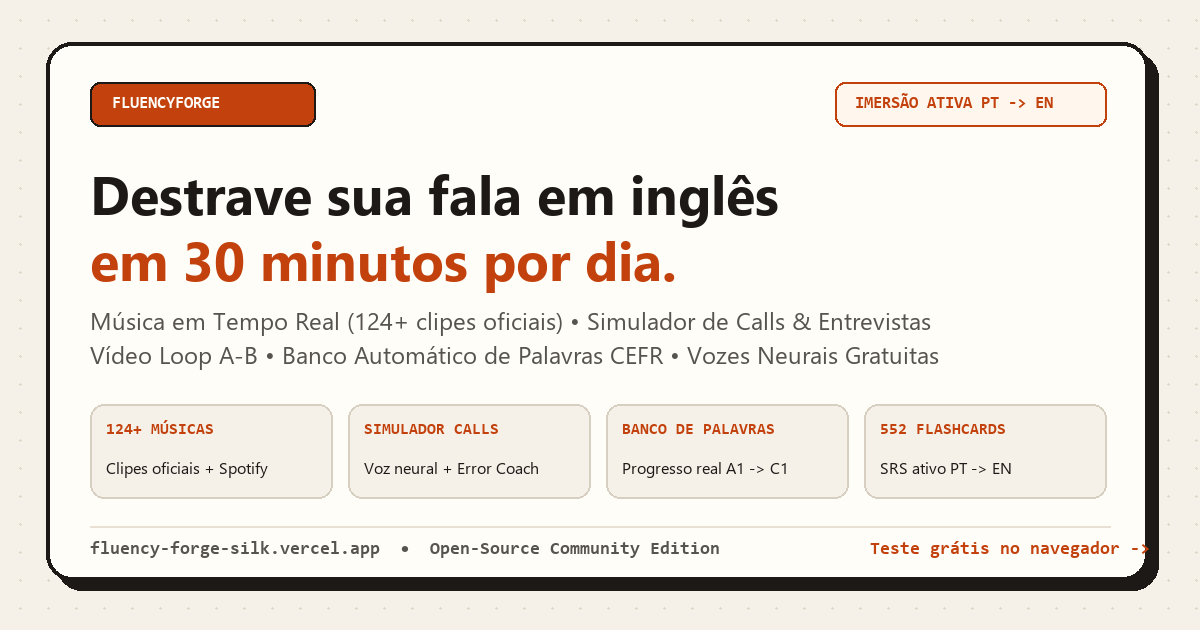
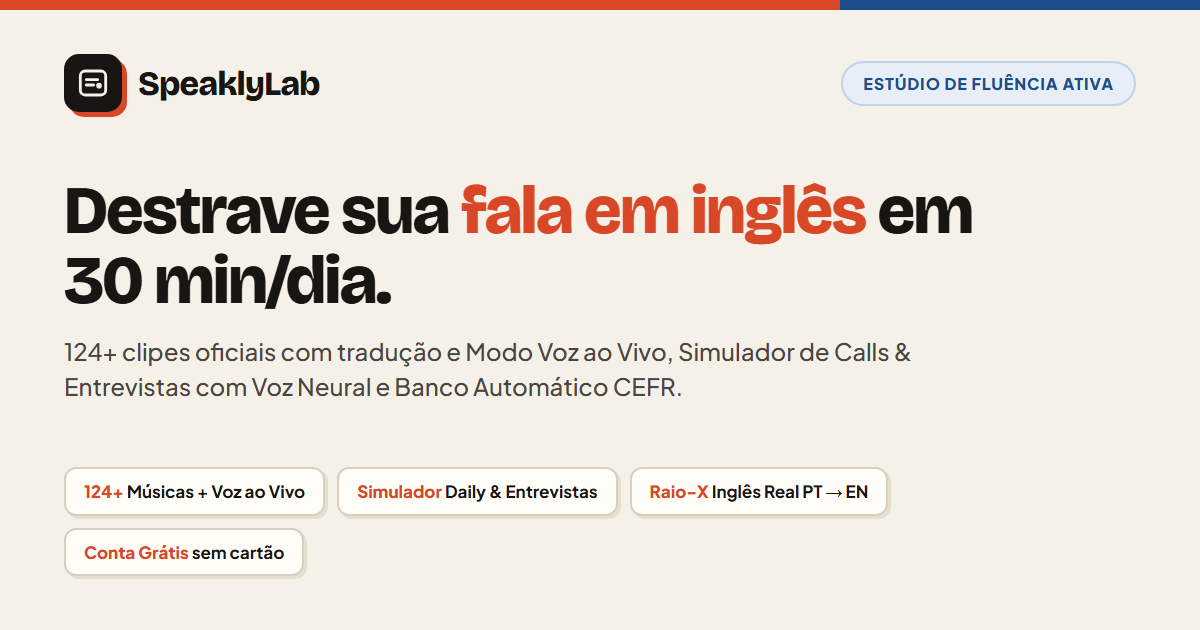
chore(brand): rebrand Community Edition, docs and OG assets to SpeaklyLab

Changed region(s): [[0.0308, 0.0603, 0.9867, 0.9651], [0.0, 0.0, 1.0, 0.0302], [0.7092, 0.6333, 0.925, 0.6937]]

diff --git a/public/guia.html b/public/guia.html
@@ -3,12 +3,12 @@
 <head>
   <meta charset="UTF-8" />
   <meta name="viewport" content="width=device-width, initial-scale=1.0" />
-  <title>Guia Visual Passo a Passo — FluencyForge</title>
-  <meta name="description" content="Guia visual em 7 passos para destravar sua fala em inglês usando FluencyForge." />
+  <title>Guia Visual Passo a Passo — SpeaklyLab</title>
+  <meta name="description" content="Guia visual em 7 passos para destravar sua fala em inglês usando SpeaklyLab." />
   <meta name="robots" content="index, follow" />
   <link rel="canonical" href="https://fluency-forge-silk.vercel.app/guia.html" />
   <link rel="icon" type="image/svg+xml" href="/favicon.svg" />
-  <meta property="og:title" content="Guia Visual Passo a Passo — FluencyForge" />
+  <meta property="og:title" content="Guia Visual Passo a Passo — SpeaklyLab" />
   <meta property="og:image" content="https://fluency-forge-silk.vercel.app/og-image.png" />
   <link rel="preconnect" href="https://fonts.googleapis.com" />
   <link rel="preconnect" href="https://fonts.gstatic.com" crossorigin />
@@ -29,7 +29,7 @@
         <div class="brand-logo">FF</div>
         <div>
           <h1 style="font-size:20px; font-weight:800;">Guia Visual — Como Evoluir Passo a Passo</h1>
-          <p class="muted">Apresentação interativa do FluencyForge para ir de pouco em pouco, na ordem certa</p>
+          <p class="muted">Apresentação interativa do SpeaklyLab para ir de pouco em pouco, na ordem certa</p>
         </div>
       </div>
       <div class="row">
@@ -126,7 +126,7 @@
           <div class="stack-md">
             <div class="card stack-md">
               <span class="pill">Regra de Ouro: 30% ouvindo • 70% falando em voz alta</span>
-              <h2>Por que o FluencyForge destrava seu inglês mais rápido</h2>
+              <h2>Por que o SpeaklyLab destrava seu inglês mais rápido</h2>
               <p class="muted">Você já entende bem, mas trava na fala e na leitura porque seu treino anterior era passivo. Aqui tudo é construído para puxar o inglês da sua memória na hora, em passos pequenos e consistentes.</p>
               <div class="grid-2">
                 <div class="compare-bad stack-sm">
@@ -137,7 +137,7 @@
                   <div>• Tentar fazer tudo no Dia 1 e cansar</div>
                 </div>
                 <div class="compare-good stack-sm">
-                  <strong>✅ Jeito FluencyForge (destrava rápido)</strong>
+                  <strong>✅ Jeito SpeaklyLab (destrava rápido)</strong>
                   <div>• Montar frases em 3 blocos prontos</div>
                   <div>• Cartão Invertido (PT → EN) com SRS</div>
                   <div>• Clicar nas palavras + Shadowing em voz alta</div>
@@ -290,9 +290,9 @@
               </div>
               <div class="card stack-sm">
                 <h3>💾 Como Abrir Sempre</h3>
-                <p class="muted">1. Dê duplo clique em <strong>D:\FluencyForge\abrir-plataforma.bat</strong>.</p>
+                <p class="muted">1. Dê duplo clique em <strong>D:\SpeaklyLab\abrir-plataforma.bat</strong>.</p>
                 <p class="muted">2. Prefira <strong>Chrome</strong> ou <strong>Edge</strong> para áudio e microfone.</p>
-                <p class="muted">3. Seu progresso fica salvo em <strong>D:\FluencyForge\data\progress.json</strong>.</p>
+                <p class="muted">3. Seu progresso fica salvo em <strong>D:\SpeaklyLab\data\progress.json</strong>.</p>
                 <div style="padding-top:6px;"><a href="/" class="btn btn-primary">Começar Treino Agora →</a></div>
               </div>
             </div>

diff --git a/public/js/lyrics-studio.js b/public/js/lyrics-studio.js
@@ -459,7 +459,7 @@ function updateBilingualActiveRow() {
 }
 
 // =========================================================================
-// COMMUNITY EDITION: LOCAL ONLY (CLOUD LEADERBOARD IS PART OF FLUENCYFORGE PRO)
+// COMMUNITY EDITION: LOCAL ONLY (CLOUD LEADERBOARD IS PART OF SPEAKLYLAB PRO)
 // =========================================================================
 async function fetchGlobalTrendingOnce() {}
 
@@ -470,7 +470,7 @@ function renderFirebaseHubPanel() {
     <div class="card row-between" style="padding:14px 16px; gap:12px; flex-wrap:wrap; background:var(--bg-soft);">
       <div class="row" style="gap:10px; align-items:center;">
         <span class="pill" style="font-size:11px;">${iconHtml('trophy', 12)} Modo Local (Community MIT)</span>
-        <span class="muted" style="font-size:12.5px;">Quer competir no <strong>Ranking Global por Música</strong>, ver onde brasileiros mais travam e sincronizar na nuvem? Conheça o <strong>FluencyForge Pro</strong>.</span>
+        <span class="muted" style="font-size:12.5px;">Quer competir no <strong>Ranking Global por Música</strong>, ver onde brasileiros mais travam e sincronizar na nuvem? Conheça o <strong>SpeaklyLab Pro</strong>.</span>
       </div>
       <div class="row" style="gap:6px;">
         <button type="button" class="btn btn-secondary btn-sm" id="btn-ls-challenge-friend">${iconHtml('share-2', 13)} Compartilhar Placar</button>
@@ -485,8 +485,8 @@ function renderFirebaseHubPanel() {
 function copyChallengeInvite() {
   playClick();
   const text = ls.score > 0
-    ? `Fiz ${ls.score.toLocaleString('pt-BR')} pts em "${ls.songTitle}" (${ls.songArtist}) no FluencyForge! Consegue bater meu placar? https://fluency-forge-pro.vercel.app/`
-    : `Estou treinando inglês ao vivo com "${ls.songTitle}" (${ls.songArtist}) no FluencyForge! https://fluency-forge-pro.vercel.app/`;
+    ? `Fiz ${ls.score.toLocaleString('pt-BR')} pts em "${ls.songTitle}" (${ls.songArtist}) no SpeaklyLab! Consegue bater meu placar? https://fluency-forge-pro.vercel.app/`
+    : `Estou treinando inglês ao vivo com "${ls.songTitle}" (${ls.songArtist}) no SpeaklyLab! https://fluency-forge-pro.vercel.app/`;
   if (navigator.clipboard && typeof navigator.clipboard.writeText === 'function') {
     navigator.clipboard.writeText(text).then(() => {
       toastFn('Placar copiado para compartilhar!');

diff --git a/public/js/data-path.js b/public/js/data-path.js
@@ -532,7 +532,7 @@ export const LEARNING_PATH = [
           { type: 'listen', en: 'Long story short, we sorted everything out and stayed under budget.', pt: 'Resumindo a história, resolvemos tudo e ficamos dentro do orçamento.', options: ['Resumindo a história, resolvemos tudo e ficamos dentro do orçamento.', 'Gastamos acima do orçamento e não resolvemos.', 'A história ainda não terminou.', 'Precisamos aumentar o orçamento amanhã.'], answer: 0, phon: 'lóng stó-ri shórt, uí sór-ted év-ri-thin áut énd stêid ân-der bâ-djet', explain: 'Três blocos nativos juntos na mesma frase!' },
           { type: 'type', pt: 'Combinado! Te vejo amanhã de manhã.', en: 'Sounds good! See you tomorrow morning.', alt: ['Sounds good, see you tomorrow morning.'], phon: 'sáundz gúd! sí iú tchu-mó-rôu mór-nin', explain: 'Perfeito!' },
           { type: 'speak', en: 'I am ready to speak whatever I need with confidence.', pt: 'Estou pronto para falar o que eu precisar com confiança.', phon: 'áim ré-di tchu spík uó-té-ver ái níd uíth kón-fi-dens', explain: 'Fale alto e com orgulho — você fechou a trilha inteira!' },
-          { type: 'type', pt: 'Todo esse esforço vai valer a pena muito em breve.', en: 'All this effort is going to pay off very soon.', alt: ['All this effort will pay off very soon.', 'All this effort is gonna pay off soon.'], phon: 'ól dhís é-fort íz gó-na pêi óf vé-ri sún', explain: '👑 Trilha FluencyForge 100% concluída!' }
+          { type: 'type', pt: 'Todo esse esforço vai valer a pena muito em breve.', en: 'All this effort is going to pay off very soon.', alt: ['All this effort will pay off very soon.', 'All this effort is gonna pay off soon.'], phon: 'ól dhís é-fort íz gó-na pêi óf vé-ri sún', explain: '👑 Trilha SpeaklyLab 100% concluída!' }
         ]
       }
     ]

diff --git a/public/index.html b/public/index.html
@@ -3,7 +3,7 @@
 <head>
   <meta charset="UTF-8" />
   <meta name="viewport" content="width=device-width, initial-scale=1.0" />
-  <title>FluencyForge — Estúdio Open-Source de Fluência em Inglês</title>
+  <title>SpeaklyLab — Estúdio Open-Source de Fluência em Inglês</title>
   <meta name="description" content="Plataforma open-source de imersão ativa em inglês: 124+ clipes oficiais em tempo real, Simulador de Calls, Vídeo Loop A-B, 552 Flashcards SRS PT → EN, Banco de Palavras CEFR e Vozes Neurais gratuitas." />
   <meta name="robots" content="index, follow, max-image-preview:large" />
   <meta name="theme-color" content="#f5f1e8" />
@@ -13,8 +13,8 @@
   <link rel="manifest" href="/site.webmanifest" />
   <meta property="og:type" content="website" />
   <meta property="og:locale" content="pt_BR" />
-  <meta property="og:site_name" content="FluencyForge" />
-  <meta property="og:title" content="FluencyForge — Estúdio Open-Source de Fluência em Inglês" />
+  <meta property="og:site_name" content="SpeaklyLab" />
+  <meta property="og:title" content="SpeaklyLab — Estúdio Open-Source de Fluência em Inglês" />
   <meta property="og:description" content="Destrave sua fala em inglês com 124+ clipes oficiais em tempo real, Simulador de Calls, Vídeo Loop A-B, Vozes Neurais e Banco de Palavras CEFR." />
   <meta property="og:url" content="https://fluency-forge-silk.vercel.app/" />
   <meta property="og:image" content="https://fluency-forge-silk.vercel.app/og-image.png" />
@@ -41,7 +41,7 @@
           </svg>
         </div>
         <div>
-          <div class="brand-title">FluencyForge</div>
+          <div class="brand-title">SpeaklyLab</div>
           <div class="brand-sub" id="brand-sub">Estúdio de Inglês</div>
         </div>
       </div>

diff --git a/public/js/share-card.js b/public/js/share-card.js
@@ -57,7 +57,7 @@ export function downloadEvolutionCardPng() {
   ctx.fill();
   ctx.fillStyle = '#fffdf8';
   ctx.font = '700 15px monospace';
-  ctx.fillText('FLUENCYFORGE', 108, 100);
+  ctx.fillText('SPEAKLYLAB', 108, 100);
 
   // Date top-right
   ctx.fillStyle = '#78716c';
@@ -159,7 +159,7 @@ export function downloadEvolutionCardPng() {
   ctx.fillText('fluency-forge-silk.vercel.app  •  Estúdio de Imersão Ativa em Inglês', 84, 540);
 
   const link = document.createElement('a');
-  link.download = `fluencyforge-evolucao-${new Date().toISOString().slice(0, 10)}.png`;
+  link.download = `speaklylab-evolucao-${new Date().toISOString().slice(0, 10)}.png`;
   link.href = canvas.toDataURL('image/png');
   link.click();
 }
@@ -167,7 +167,7 @@ export function downloadEvolutionCardPng() {
 export function buildEvolutionShareText() {
   const a = getProfileAnalytics();
   return [
-    `Minha evolução no inglês com FluencyForge:`,
+    `Minha evolução no inglês com SpeaklyLab:`,
     `• Nível estimado: ${a.cefr.code} (${a.overallScore}/100)`,
     `• Tempo de imersão: ${formatDurationCompact(a.totalSec)}`,
     `• Banco de Palavras: ${a.lx.totalUnique} palavras vistas (${a.lx.knownTotal} aprendidas)`,

diff --git a/public/js/data-drills-extra.js b/public/js/data-drills-extra.js
@@ -213,7 +213,7 @@ export const EXTRA_SPEAKING_TOPICS_432 = [
   { title: 'Como lidar com pressão e prazos curtos', prompt: 'Explique o que você faz para manter a calma quando falta pouco tempo para entregar algo importante.' },
   { title: 'Redes sociais: ferramenta ou distração?', prompt: 'Dê uma visão equilibrada sobre como você usa redes sociais para aprender vs. quando elas roubam seu foco.' },
   { title: 'Qual outro idioma você quer aprender depois do inglês', prompt: 'Você mencionou que quer aprender alguns idiomas! Fale quais são, por que te interessam e como o inglês vai abrir portas para eles.' },
-  { title: 'Simulação: explicar sua plataforma FluencyForge', prompt: 'Explique em inglês para um amigo como funciona essa plataforma que você está usando hoje e qual parte ajuda mais.' },
+  { title: 'Simulação: explicar sua plataforma SpeaklyLab', prompt: 'Explique em inglês para um amigo como funciona essa plataforma que você está usando hoje e qual parte ajuda mais.' },
   { title: 'Seu maior objetivo nos próximos 90 dias', prompt: 'Seja específico: o que você quer estar fazendo com confiança daqui a 3 meses e qual plano vai seguir.' }
 ];
 

diff --git a/public/js/app.js b/public/js/app.js
@@ -194,10 +194,10 @@ function setView(view) {
     btn.classList.toggle('active', btn.dataset.view === view);
   });
   document.querySelector('.sidebar').classList.remove('open');
-  const [title, sub] = VIEW_META[view] || ['FluencyForge', ''];
+  const [title, sub] = VIEW_META[view] || ['SpeaklyLab', ''];
   document.getElementById('page-title').textContent = title;
   document.getElementById('page-subtitle').textContent = sub;
-  document.title = `${title} | FluencyForge`;
+  document.title = `${title} | SpeaklyLab`;
   renderView();
 }
 
@@ -1173,7 +1173,7 @@ function bindViewEvents() {
       const url = URL.createObjectURL(blob);
       const a = document.createElement('a');
       a.href = url;
-      a.download = `fluencyforge-backup-${new Date().toISOString().slice(0, 10)}.json`;
+      a.download = `speaklylab-backup-${new Date().toISOString().slice(0, 10)}.json`;
       a.click();
       URL.revokeObjectURL(url);
       showToast('Backup baixado com sucesso!');

diff --git a/server.js b/server.js
@@ -203,9 +203,9 @@ const server = http.createServer((req, res) => {
 server.listen(PORT, '127.0.0.1', () => {
   console.log('');
   console.log('====================================================');
-  console.log('  FluencyForge — Plataforma de Imersão em Inglês');
+  console.log('  SpeaklyLab — Plataforma de Imersão em Inglês');
   console.log(`  Acesse no navegador: http://localhost:${PORT}`);
-  console.log('  Progresso salvo em:  D:\\FluencyForge\\data\\progress.json');
+  console.log('  Progresso salvo em:  D:\\SpeaklyLab\\data\\progress.json');
   console.log('====================================================');
   console.log('');
 });

diff --git a/public/js/lexicon-view.js b/public/js/lexicon-view.js
@@ -307,7 +307,7 @@ export function bindLexiconEvents(root, rerender, showToast) {
     const blob = new Blob([[header, ...csvRows].join('\n')], { type: 'text/csv;charset=utf-8' });
     const a = document.createElement('a');
     a.href = URL.createObjectURL(blob);
-    a.download = `fluencyforge-lexico-${new Date().toISOString().slice(0, 10)}.csv`;
+    a.download = `speaklylab-lexico-${new Date().toISOString().slice(0, 10)}.csv`;
     a.click();
     setTimeout(() => URL.revokeObjectURL(a.href), 1500);
     showToast(`CSV exportado com ${entries.length} palavras!`);

diff --git a/public/js/music-native-xray.js b/public/js/music-native-xray.js
@@ -1,5 +1,5 @@
 // Real Spoken English X-Ray (Connected Speech, Contractions & Phrasal Verbs)
-// + Word-by-Word Live Voice Shadowing Evaluator for FluencyForge Music Studio
+// + Word-by-Word Live Voice Shadowing Evaluator for SpeaklyLab Music Studio
 
 const CONNECTED_SPEECH_RULES = [
   { re: /\bi['’]?ma\b/gi, raw: "I'ma", expanded: "I am going to", tip: 'Junção super rápida de "I am going to" — muito comum em pop, rap e fala informal nos EUA.' },

diff --git a/public/styles.css b/public/styles.css
@@ -1,5 +1,5 @@
 /* =========================================================================
-   FLUENCYFORGE — EDITORIAL STUDIO DESIGN SYSTEM
+   SPEAKLYLAB — EDITORIAL STUDIO DESIGN SYSTEM
    Warm Archival Paper, Espresso Ink, International Vermilion & Forest Green
    ========================================================================= */
 

diff --git a/README.md b/README.md
@@ -1,4 +1,4 @@
-# FluencyForge — Estúdio Open-Source de Fluência Ativa em Inglês
+# SpeaklyLab — Estúdio Open-Source de Fluência Ativa em Inglês
 
 ![License: MIT](https://img.shields.io/badge/License-MIT-c2410c.svg)
 ![Node.js 18+](https://img.shields.io/badge/Node.js-18%2B-15803d.svg)
@@ -45,9 +45,9 @@ Veja o histórico detalhado de versões em [CHANGELOG.md](./CHANGELOG.md).
 
 ## Modelo Open-Core: Community vs. Pro
 
-O FluencyForge segue o modelo **Open-Core**: este repositório contém a edição **Community (MIT)** 100% aberta para uso local, estudo e contribuições da comunidade. A edição comercial **FluencyForge Pro** adiciona a camada SaaS em nuvem em um repositório privado separado.
+O SpeaklyLab segue o modelo **Open-Core**: este repositório contém a edição **Community (MIT)** 100% aberta para uso local, estudo e contribuições da comunidade. A edição comercial **SpeaklyLab Pro** adiciona a camada SaaS em nuvem em um repositório privado separado.
 
-| Recurso | Community (MIT — Este Repo) | FluencyForge Pro (SaaS) |
+| Recurso | Community (MIT — Este Repo) | SpeaklyLab Pro (SaaS) |
 | :--- | :---: | :---: |
 | Trilha Guiada (32 lições), 552 Flashcards SRS & 125 Drills | ✅ | ✅ |
 | Música com 124+ Clipes Oficiais, Capas HD & Importador | ✅ | ✅ |
@@ -91,7 +91,7 @@ npx vercel --prod
 ## Estrutura do Projeto
 
 ```text
-FluencyForge/
+SpeaklyLab/
 ├── api/
 │   ├── tts.mjs               # Serverless Function (8 Vozes Neurais gratuitas + cache CDN)
 │   └── lyrics.mjs            # Serverless Function (LRCLIB + buscador de Clipes Oficiais + importador)
